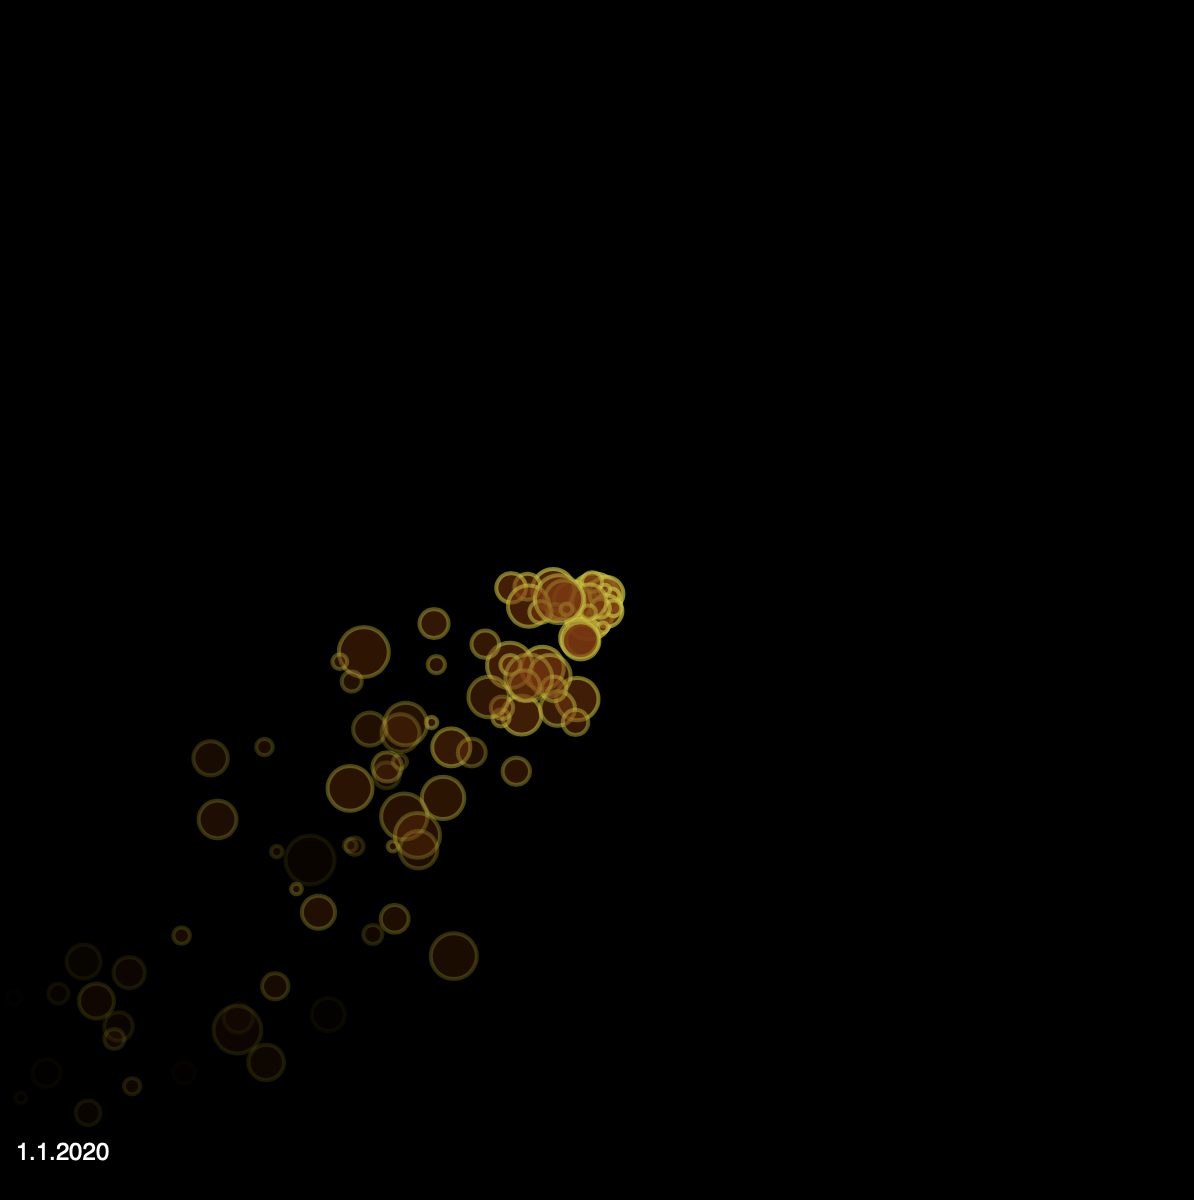
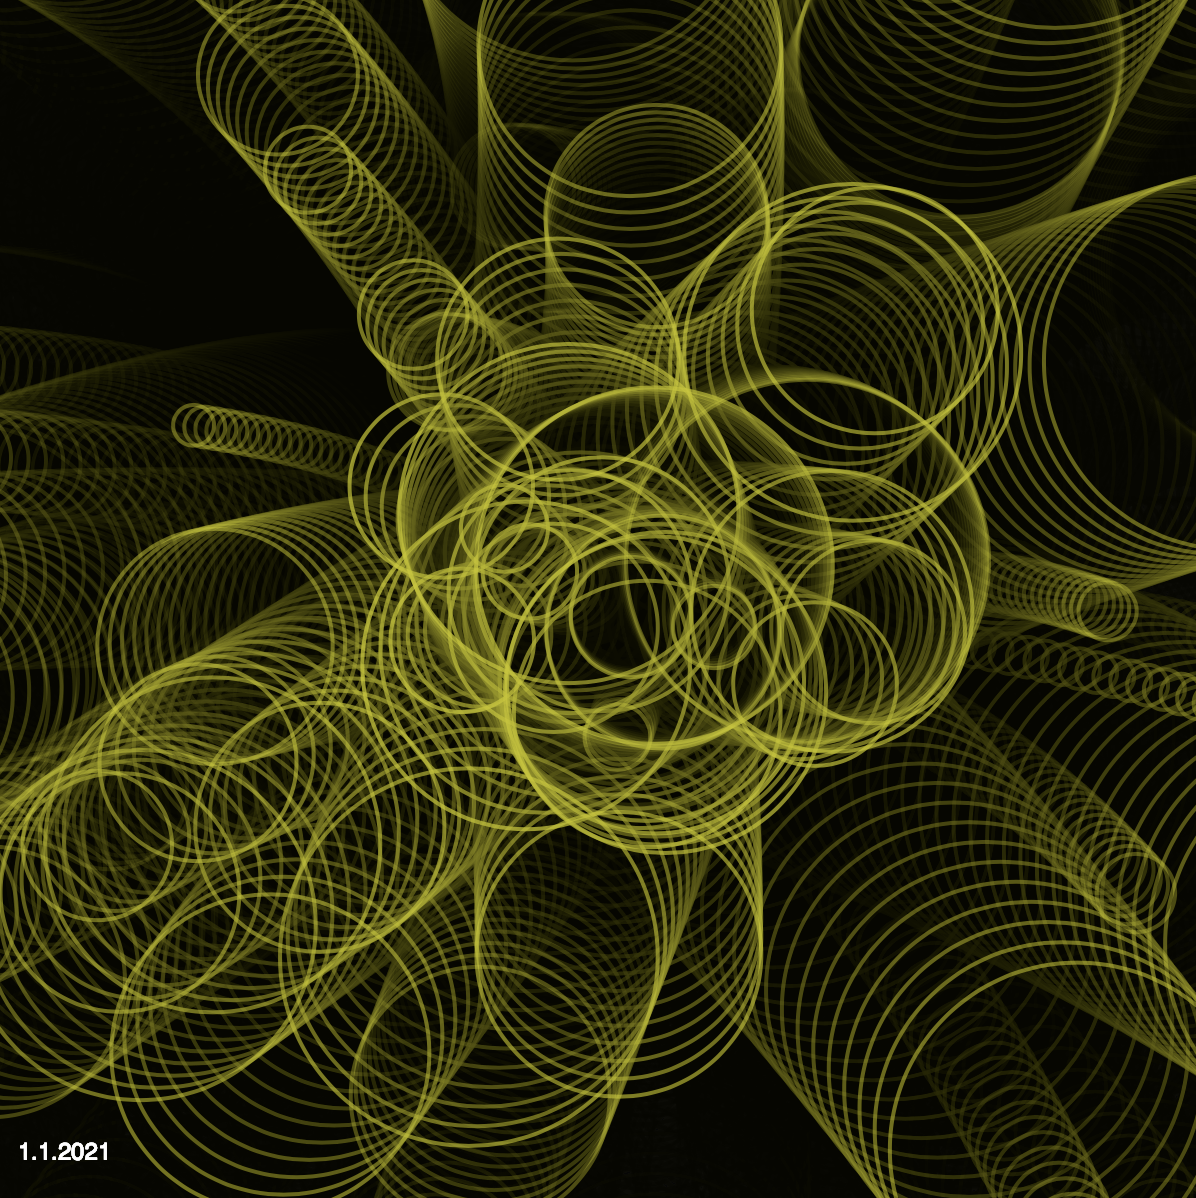
add first sketch

diff --git a/sketches/1_1/sketch.js b/sketches/1_1/sketch.js
@@ -1,5 +1,7 @@
 //Based off the particle system example on p5.js
+//https://p5js.org/examples/simulate-particle-system.html 
 
+//Nina Lutz, Jan 1 2021
 let system;
 
 function setup() {
@@ -8,20 +10,20 @@ function setup() {
 }
 
 function draw() {
-  background(0);
+  background(0, 20);
   system.addParticle();
   system.run();
   fill(255);
-  text("1.1.2020", 10, height - 20);
+  text("1.1.2021", 10, height - 20);
 }
 
 // A simple Particle class
 let Particle = function(position) {
   this.acceleration = createVector(-0.05, 0.05);
-  this.velocity = createVector(random(-1, 1), random(-1, 1));
+  this.velocity = createVector(random(-10, 10), random(-10, 10));
   this.position = position.copy();
   this.lifespan = 200;
-  this.size = random(5, 25);
+  this.size = random(20, 200);
 };
 
 Particle.prototype.run = function() {
@@ -40,7 +42,7 @@ Particle.prototype.update = function(){
 Particle.prototype.display = function() {
   stroke(200, 200, 0, this.lifespan);
   strokeWeight(2);
-  fill(127, 50, 0, this.lifespan);
+  fill(0, 10);
   ellipse(this.position.x, this.position.y, this.size, this.size);
 };
 

diff --git a/index.html b/index.html
@@ -30,8 +30,8 @@
         <div class="col-12 pt-3">
             <h4>January 2021</h4>
 
-<!--             <a href = "sketches/1_1/index.html"><img src="sketches/1_1/icon.png" width="200px" scrolling="no" height="200px"></a>
-            <img src="sketches/1_1/icon.png" width="200px" scrolling="no" height="200px">
+            <a href = "sketches/1_1/index.html"><img src="sketches/1_1/icon.png" width="200px" scrolling="no" height="200px"></a>
+<!--             <img src="sketches/1_1/icon.png" width="200px" scrolling="no" height="200px">
             <img src="sketches/1_1/icon.png" width="200px" scrolling="no" height="200px"> -->
 
         </div>

diff --git a/sketches/1_1/index.html b/sketches/1_1/index.html
@@ -3,7 +3,7 @@
   <head>
     <meta charset="utf-8">
     <meta name="viewport" content="width=device-width, initial-scale=1.0">
-    <title>1.1.20</title>
+    <title>1.1.21</title>
     <style> body {padding: 0; margin: 0;} </style>
     <script src="p5.js"></script>
     <script src="p5.sound.js"></script>
